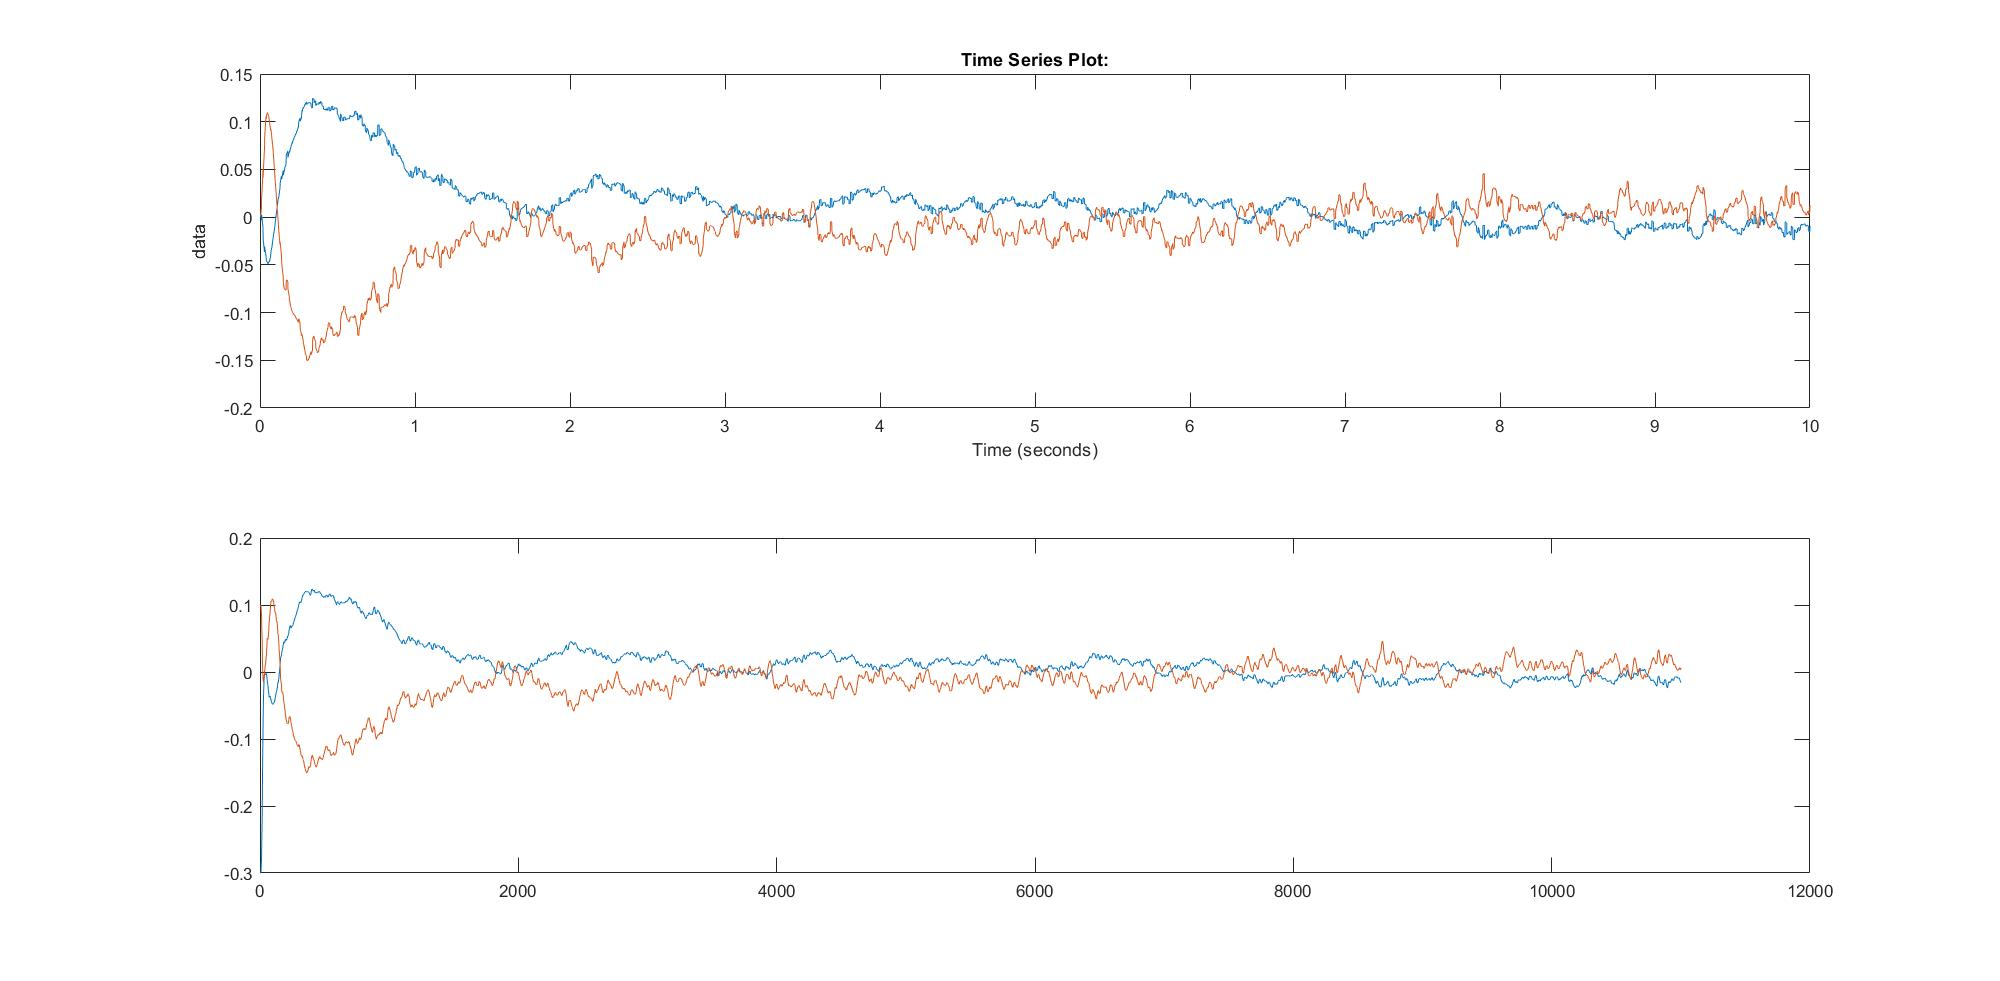
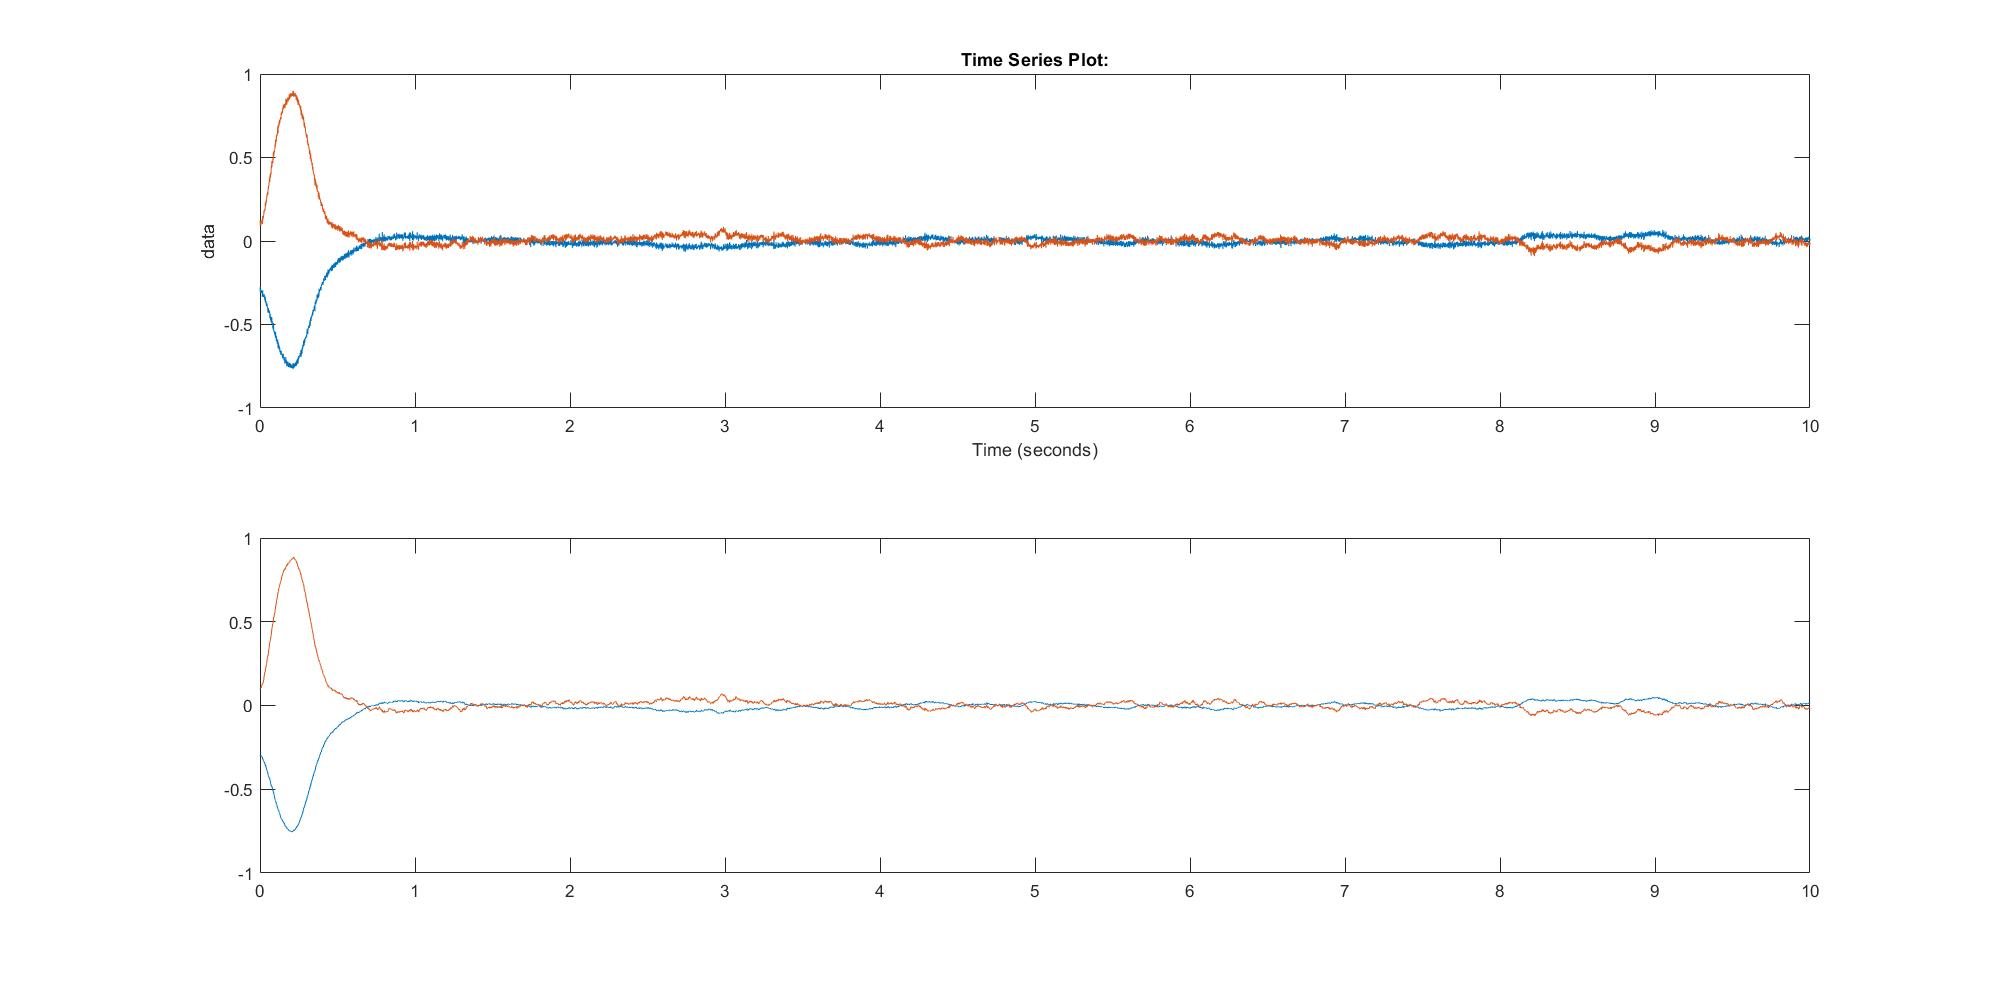
Update

diff --git a/Pendulum Model/testingObserver.m b/Pendulum Model/testingObserver.m
@@ -1,10 +1,10 @@
 %% LOAD PARAM
-%Parameters = EstimatedParams();
+Parameters = EstimatedParams();
 PoleFunc = @(w,zeta) -w.*zeta+ [w.*sqrt(zeta.^2-1),-w.*sqrt(zeta.^2-1) ];
 w = [4, 4, 3.75, 3]; % away from frequencies from the system. 
 zeta = [ 1.05, 1, 1.5, 2.1];
-PR3 = [PoleFunc(w(3),zeta(3)), -50.0, -60.0, -100.0];
-Parameters.PoleGain = place(A, B, P3);   
+PR3 = [PoleFunc(3.75,0.7), -50.0, -60.0, -100.0];
+Parameters.PoleGain = place(A, B, PR3);   
 close all
 %% TRIAL AND ERROR
 P1 = [PoleFunc(25,zeta(1)), -200.0, -300.0, -500.0];
@@ -32,7 +32,8 @@ K2 = place(A', C', P2);
 K3 = place(A', C', P3);
 K4 = place(A', C', P4);
 %% RETRIEVING DATA FROM NL MODEL
-firstLocation = [ 0 0];
+firstLocation = [ -0.3 0.1];
+firstLocationFull = [ 0 firstLocation 0.1 0.0];
 %% OBSERVE BEST MODEL
 Parameters.K = K1;
 Test1 = sim('LinearTopTest');
@@ -43,7 +44,7 @@ figure;
 subplot(2,1,1);
 plot(Test1.RealTheta);
 subplot(2,1,2);
-plot(Test1.Theta_Model.data(:,2:3));
+plot(Test1.Theta_Model.time,Test1.Theta_Model.data(:,2:3));
 Parameters.K = K11;
 Test2 = sim('LinearTopTest');
 figure;
@@ -52,7 +53,7 @@ figure;
 subplot(2,1,1);
 plot(Test2.RealTheta);
 subplot(2,1,2);
-plot(Test2.Theta_Model.data(:,2:3));
+plot(Test2.Theta_Model.time,Test2.Theta_Model.data(:,2:3));
 
 Parameters.K = K3;
 Test3 = sim('LinearTopTest');
@@ -62,7 +63,7 @@ figure;
 subplot(2,1,1);
 plot(Test3.RealTheta);
 subplot(2,1,2);
-plot(Test3.Theta_Model.data(:,2:3));
+plot(Test3.Theta_Model.time, Test3.Theta_Model.data(:,2:3));
 Parameters.K = K4;
 Test4 = sim('LinearTopTest');
 figure;
@@ -71,6 +72,6 @@ figure;
 subplot(2,1,1);
 plot(Test4.RealTheta);
 subplot(2,1,2);
-plot(Test4.Theta_Model.data(:,2:3));
+plot(Test4.Theta_Model.time,Test4.Theta_Model.data(:,2:3));
 %% 
 % P1 zijn de poles van de Observer. K4 wordt gebruikt.

diff --git a/Pendulum Model/ConvertParams.m b/Pendulum Model/ConvertParams.m
@@ -49,5 +49,7 @@ Parameters.Cd = sysd.C;
 Parameters.PoleGainLQR = [ -0.2058   90.6459   80.9736   14.0066    7.0228];
 Parameters.PoleGainPolePlace = [ 0.0810    4.9899    4.0572    0.1231    0.3565];
 Parameters.ErrorGains = 0.95 +  0.1*rand(1,5);
+%Parameters.ErrorGains = [1.0258 1.0243 0.9892 1.0155 0.9671];
+% To make exactly the same graphs as we did. 
 Parameters.disturbance = 0;
 end
